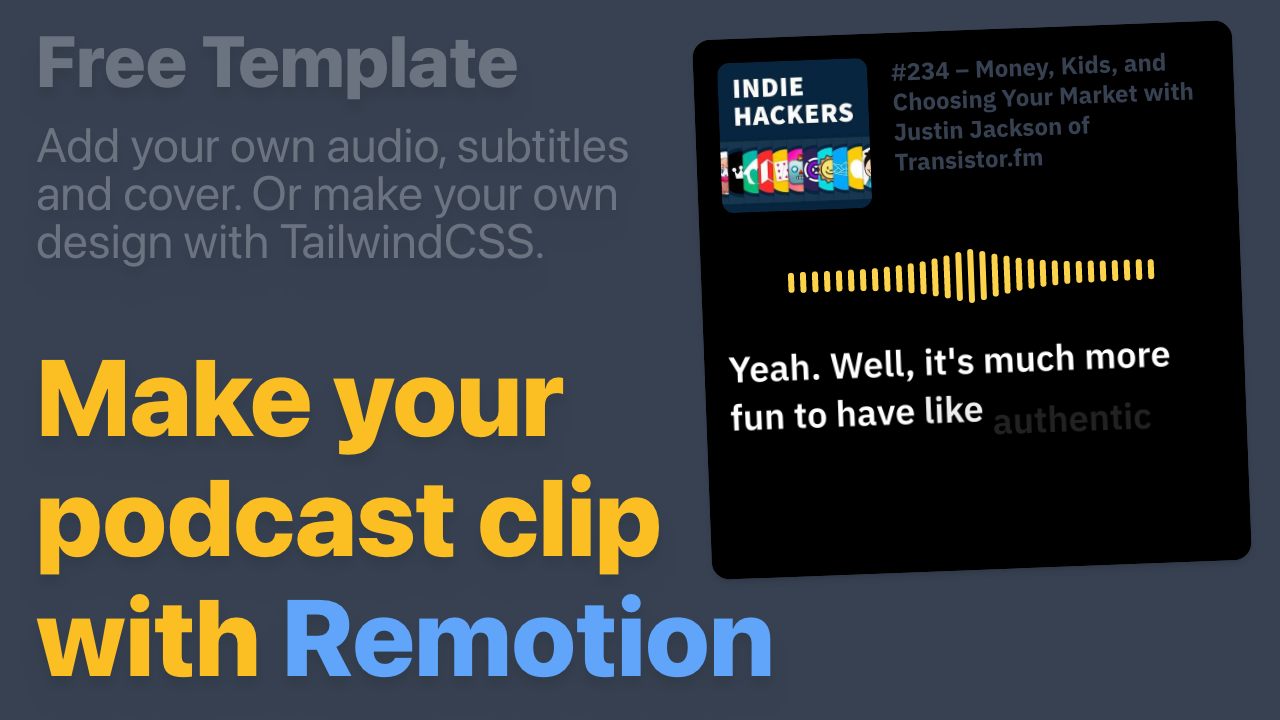
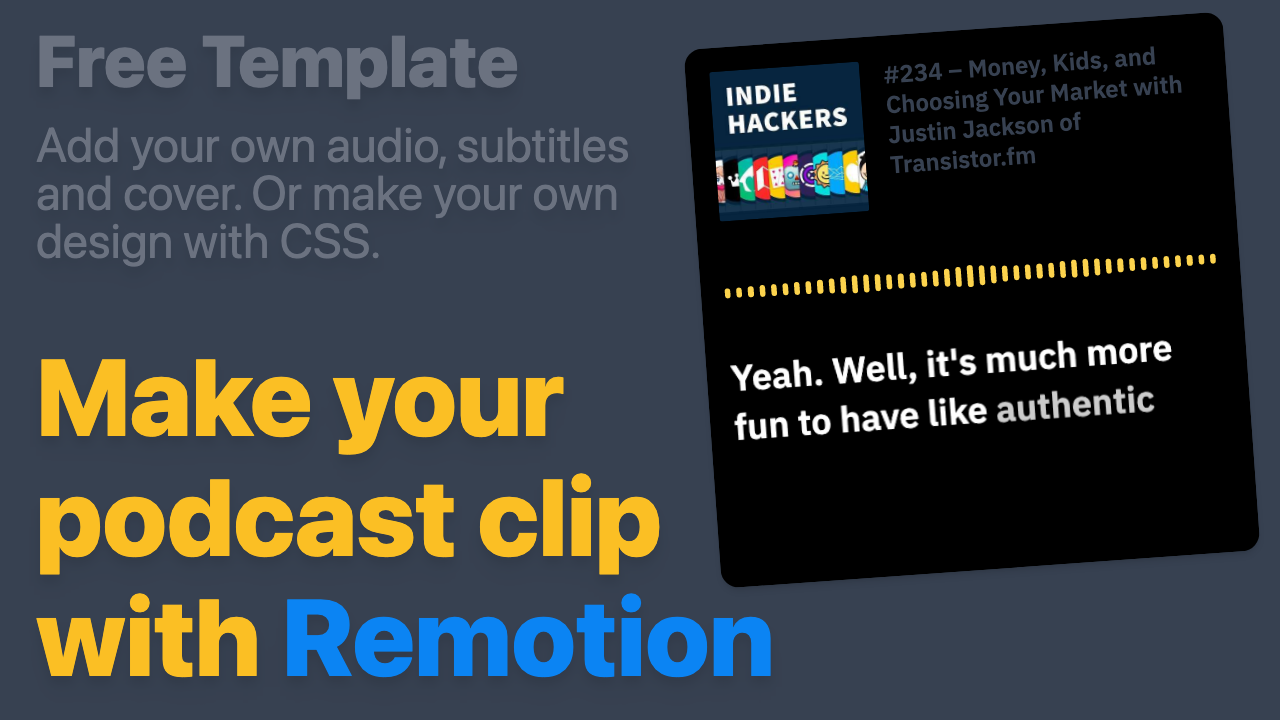
remove dependencies

diff --git a/remotion.config.ts b/remotion.config.ts
@@ -2,49 +2,3 @@ import { Config } from 'remotion';
 
 Config.Rendering.setImageFormat('jpeg');
 Config.Output.setOverwriteOutput(true);
-
-Config.Bundling.overrideWebpackConfig((currentConfiguration) => {
-	const cssRules = currentConfiguration.module?.rules?.find((r) => {
-		if (r === '...') {
-			return false;
-		}
-		return r.test?.toString().includes('.css');
-	});
-	const useCss =
-		cssRules !== '...' && cssRules !== undefined ? cssRules.use : [];
-	return {
-		...currentConfiguration,
-		module: {
-			...currentConfiguration.module,
-			rules: [
-				...(currentConfiguration.module?.rules ?? []).filter((rule) => {
-					if (rule === '...') {
-						return false;
-					}
-					if (rule.test?.toString().includes('.css')) {
-						return false;
-					}
-					return true;
-				}),
-				{
-					test: /\.css$/i,
-					use: [
-						...(Array.isArray(useCss) ? [...useCss] : []),
-						{
-							loader: 'postcss-loader',
-							options: {
-								postcssOptions: {
-									plugins: [
-										'postcss-preset-env',
-										'tailwindcss',
-										'autoprefixer',
-									],
-								},
-							},
-						},
-					],
-				},
-			],
-		},
-	};
-});

diff --git a/src/PromoComposition.tsx b/src/PromoComposition.tsx
@@ -24,9 +24,9 @@ export const PromoComposition = () => {
 			<div className="free-template">Free Template</div>
 			<div className="description">
 				Add your own audio, subtitles and cover. Or make your own design with
-				TailwindCSS.
+				CSS.
 			</div>
-			<div className="tagline text-4xl">
+			<div className="tagline">
 				Make your podcast clip with{' '}
 				<span className="remotion-blue">Remotion</span>
 			</div>
